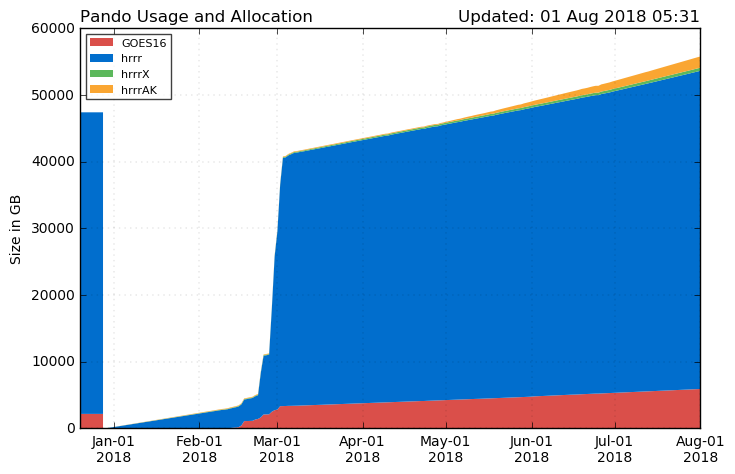
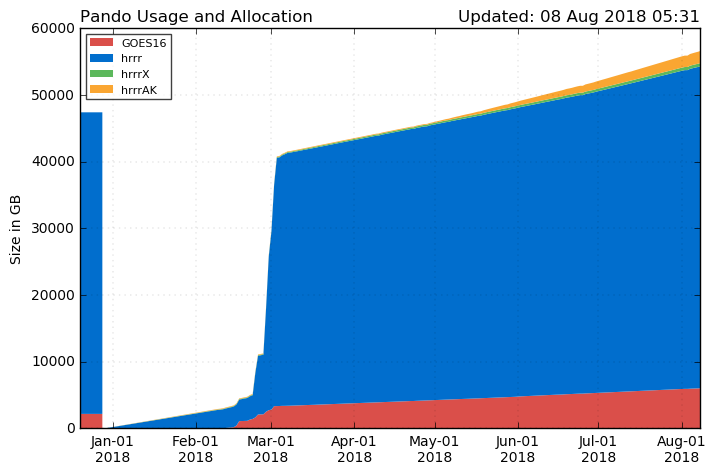
updates

diff --git a/hrrr_fires.html b/hrrr_fires.html
@@ -49,7 +49,7 @@ This page is created dynamically in the scirpt /oper/HRRR_fires/manager.py
 <tr><th>Name</th> <th>State</th> <th>Size (acres)</th> <th>Start Date</th></tr>
 <tr><td>
         <div class="btn-group" role="group" aria-label="..." style="padding-bottom:3px">
-        <a href="http://home.chpc.utah.edu/~u0553130/Brian_Blaylock/cgi-bin/photo_viewer_fire.cgi?FIRE=AREA_19" class="btn btn-warning" style="width:175px"><b><i class="fab fa-gripfire"></i> AREA 19</b></a>  <div class="btn-group" role="group">
+        <a href="http://home.chpc.utah.edu/~u0553130/Brian_Blaylock/cgi-bin/photo_viewer_fire.cgi?FIRE=ANGEL_SPRINGS" class="btn btn-warning" style="width:175px"><b><i class="fab fa-gripfire"></i> ANGEL SPRINGS</b></a>  <div class="btn-group" role="group">
         <!--
         <a class="btn btn-warning dropdown-toggle" data-toggle="dropdown" aria-haspopup="true" aria-expanded="false">
         <i class="far fa-clock"></i>
@@ -57,12 +57,12 @@ This page is created dynamically in the scirpt /oper/HRRR_fires/manager.py
         </a>
         <ul class="dropdown-menu">
         <li>Other Data/Figures:</li>
-        <li><a href="http://home.chpc.utah.edu/~u0553130/PhD/HRRR_fires/AREA_19">More Plots</a></li>
-        <li><a href="http://home.chpc.utah.edu/~u0553130/Brian_Blaylock/cgi-bin/hrrr_fires_alert.cgi?fire=AREA 19">Past Wind Events</a></li>
+        <li><a href="http://home.chpc.utah.edu/~u0553130/PhD/HRRR_fires/ANGEL_SPRINGS">More Plots</a></li>
+        <li><a href="http://home.chpc.utah.edu/~u0553130/Brian_Blaylock/cgi-bin/hrrr_fires_alert.cgi?fire=ANGEL SPRINGS">Past Wind Events</a></li>
         </ul>
         -->
         </div>
-        </div></td><td>Nevada</td> <td>5,000.0</td><td>2018-07-28 00:00:00</td></tr><tr><td>
+        </div></td><td>Washington</td> <td>4,500.0</td><td>2018-08-02 00:00:00</td></tr><tr><td>
         <div class="btn-group" role="group" aria-label="..." style="padding-bottom:3px">
         <a href="http://home.chpc.utah.edu/~u0553130/Brian_Blaylock/cgi-bin/photo_viewer_fire.cgi?FIRE=BULL_DRAW" class="btn btn-warning" style="width:175px"><b><i class="fab fa-gripfire"></i> BULL DRAW</b></a>  <div class="btn-group" role="group">
         <!--
@@ -77,9 +77,9 @@ This page is created dynamically in the scirpt /oper/HRRR_fires/manager.py
         </ul>
         -->
         </div>
-        </div></td><td>Colorado</td> <td>2,885.0</td><td>2018-07-29 00:00:00</td></tr><tr><td>
+        </div></td><td>Colorado</td> <td>6,439.0</td><td>2018-07-29 00:00:00</td></tr><tr><td>
         <div class="btn-group" role="group" aria-label="..." style="padding-bottom:3px">
-        <a href="http://home.chpc.utah.edu/~u0553130/Brian_Blaylock/cgi-bin/photo_viewer_fire.cgi?FIRE=FERGUSON" class="btn btn-warning" style="width:175px"><b><i class="fab fa-gripfire"></i> FERGUSON</b></a>  <div class="btn-group" role="group">
+        <a href="http://home.chpc.utah.edu/~u0553130/Brian_Blaylock/cgi-bin/photo_viewer_fire.cgi?FIRE=CARR" class="btn btn-warning" style="width:175px"><b><i class="fab fa-gripfire"></i> CARR</b></a>  <div class="btn-group" role="group">
         <!--
         <a class="btn btn-warning dropdown-toggle" data-toggle="dropdown" aria-haspopup="true" aria-expanded="false">
         <i class="far fa-clock"></i>
@@ -87,14 +87,14 @@ This page is created dynamically in the scirpt /oper/HRRR_fires/manager.py
         </a>
         <ul class="dropdown-menu">
         <li>Other Data/Figures:</li>
-        <li><a href="http://home.chpc.utah.edu/~u0553130/PhD/HRRR_fires/FERGUSON">More Plots</a></li>
-        <li><a href="http://home.chpc.utah.edu/~u0553130/Brian_Blaylock/cgi-bin/hrrr_fires_alert.cgi?fire=FERGUSON">Past Wind Events</a></li>
+        <li><a href="http://home.chpc.utah.edu/~u0553130/PhD/HRRR_fires/CARR">More Plots</a></li>
+        <li><a href="http://home.chpc.utah.edu/~u0553130/Brian_Blaylock/cgi-bin/hrrr_fires_alert.cgi?fire=CARR">Past Wind Events</a></li>
         </ul>
         -->
         </div>
-        </div></td><td>California</td> <td>37,795.0</td><td>2018-07-13 00:00:00</td></tr><tr><td>
+        </div></td><td>California</td> <td>160,049.0</td><td>2018-07-23 00:00:00</td></tr><tr><td>
         <div class="btn-group" role="group" aria-label="..." style="padding-bottom:3px">
-        <a href="http://home.chpc.utah.edu/~u0553130/Brian_Blaylock/cgi-bin/photo_viewer_fire.cgi?FIRE=GOOSE_CREEK" class="btn btn-warning" style="width:175px"><b><i class="fab fa-gripfire"></i> GOOSE CREEK</b></a>  <div class="btn-group" role="group">
+        <a href="http://home.chpc.utah.edu/~u0553130/Brian_Blaylock/cgi-bin/photo_viewer_fire.cgi?FIRE=COLUMBUS" class="btn btn-warning" style="width:175px"><b><i class="fab fa-gripfire"></i> COLUMBUS</b></a>  <div class="btn-group" role="group">
         <!--
         <a class="btn btn-warning dropdown-toggle" data-toggle="dropdown" aria-haspopup="true" aria-expanded="false">
         <i class="far fa-clock"></i>
@@ -102,12 +102,42 @@ This page is created dynamically in the scirpt /oper/HRRR_fires/manager.py
         </a>
         <ul class="dropdown-menu">
         <li>Other Data/Figures:</li>
-        <li><a href="http://home.chpc.utah.edu/~u0553130/PhD/HRRR_fires/GOOSE_CREEK">More Plots</a></li>
-        <li><a href="http://home.chpc.utah.edu/~u0553130/Brian_Blaylock/cgi-bin/hrrr_fires_alert.cgi?fire=GOOSE CREEK">Past Wind Events</a></li>
+        <li><a href="http://home.chpc.utah.edu/~u0553130/PhD/HRRR_fires/COLUMBUS">More Plots</a></li>
+        <li><a href="http://home.chpc.utah.edu/~u0553130/Brian_Blaylock/cgi-bin/hrrr_fires_alert.cgi?fire=COLUMBUS">Past Wind Events</a></li>
         </ul>
         -->
         </div>
-        </div></td><td>Nevada</td> <td>12,000.0</td><td>2018-07-26 00:00:00</td></tr><tr><td>
+        </div></td><td>Oregon</td> <td>9,024.0</td><td>2018-07-15 00:00:00</td></tr><tr><td>
+        <div class="btn-group" role="group" aria-label="..." style="padding-bottom:3px">
+        <a href="http://home.chpc.utah.edu/~u0553130/Brian_Blaylock/cgi-bin/photo_viewer_fire.cgi?FIRE=DONNELL" class="btn btn-warning" style="width:175px"><b><i class="fab fa-gripfire"></i> DONNELL</b></a>  <div class="btn-group" role="group">
+        <!--
+        <a class="btn btn-warning dropdown-toggle" data-toggle="dropdown" aria-haspopup="true" aria-expanded="false">
+        <i class="far fa-clock"></i>
+        <span class="caret"></span>
+        </a>
+        <ul class="dropdown-menu">
+        <li>Other Data/Figures:</li>
+        <li><a href="http://home.chpc.utah.edu/~u0553130/PhD/HRRR_fires/DONNELL">More Plots</a></li>
+        <li><a href="http://home.chpc.utah.edu/~u0553130/Brian_Blaylock/cgi-bin/hrrr_fires_alert.cgi?fire=DONNELL">Past Wind Events</a></li>
+        </ul>
+        -->
+        </div>
+        </div></td><td>California</td> <td>6,000.0</td><td>2018-08-01 00:00:00</td></tr><tr><td>
+        <div class="btn-group" role="group" aria-label="..." style="padding-bottom:3px">
+        <a href="http://home.chpc.utah.edu/~u0553130/Brian_Blaylock/cgi-bin/photo_viewer_fire.cgi?FIRE=FERGUSON_" class="btn btn-warning" style="width:175px"><b><i class="fab fa-gripfire"></i> FERGUSON </b></a>  <div class="btn-group" role="group">
+        <!--
+        <a class="btn btn-warning dropdown-toggle" data-toggle="dropdown" aria-haspopup="true" aria-expanded="false">
+        <i class="far fa-clock"></i>
+        <span class="caret"></span>
+        </a>
+        <ul class="dropdown-menu">
+        <li>Other Data/Figures:</li>
+        <li><a href="http://home.chpc.utah.edu/~u0553130/PhD/HRRR_fires/FERGUSON_">More Plots</a></li>
+        <li><a href="http://home.chpc.utah.edu/~u0553130/Brian_Blaylock/cgi-bin/hrrr_fires_alert.cgi?fire=FERGUSON ">Past Wind Events</a></li>
+        </ul>
+        -->
+        </div>
+        </div></td><td>California</td> <td>89,633.0</td><td>2018-07-13 00:00:00</td></tr><tr><td>
         <div class="btn-group" role="group" aria-label="..." style="padding-bottom:3px">
         <a href="http://home.chpc.utah.edu/~u0553130/Brian_Blaylock/cgi-bin/photo_viewer_fire.cgi?FIRE=KLONDIKE" class="btn btn-warning" style="width:175px"><b><i class="fab fa-gripfire"></i> KLONDIKE</b></a>  <div class="btn-group" role="group">
         <!--
@@ -122,7 +152,7 @@ This page is created dynamically in the scirpt /oper/HRRR_fires/manager.py
         </ul>
         -->
         </div>
-        </div></td><td>Oregon</td> <td>6,097.0</td><td>2018-07-15 00:00:00</td></tr><tr><td>
+        </div></td><td>Oregon</td> <td>28,476.0</td><td>2018-07-15 00:00:00</td></tr><tr><td>
         <div class="btn-group" role="group" aria-label="..." style="padding-bottom:3px">
         <a href="http://home.chpc.utah.edu/~u0553130/Brian_Blaylock/cgi-bin/photo_viewer_fire.cgi?FIRE=MENDOCINO_COMPLEX" class="btn btn-warning" style="width:175px"><b><i class="fab fa-gripfire"></i> MENDOCINO COMPLEX</b></a>  <div class="btn-group" role="group">
         <!--
@@ -137,9 +167,9 @@ This page is created dynamically in the scirpt /oper/HRRR_fires/manager.py
         </ul>
         -->
         </div>
-        </div></td><td>California</td> <td>14,000.0</td><td>2018-07-27 00:00:00</td></tr><tr><td>
+        </div></td><td>California</td> <td>266,982.0</td><td>2018-07-27 00:00:00</td></tr><tr><td>
         <div class="btn-group" role="group" aria-label="..." style="padding-bottom:3px">
-        <a href="http://home.chpc.utah.edu/~u0553130/Brian_Blaylock/cgi-bin/photo_viewer_fire.cgi?FIRE=MESA" class="btn btn-warning" style="width:175px"><b><i class="fab fa-gripfire"></i> MESA</b></a>  <div class="btn-group" role="group">
+        <a href="http://home.chpc.utah.edu/~u0553130/Brian_Blaylock/cgi-bin/photo_viewer_fire.cgi?FIRE=MESA_" class="btn btn-warning" style="width:175px"><b><i class="fab fa-gripfire"></i> MESA </b></a>  <div class="btn-group" role="group">
         <!--
         <a class="btn btn-warning dropdown-toggle" data-toggle="dropdown" aria-haspopup="true" aria-expanded="false">
         <i class="far fa-clock"></i>
@@ -147,14 +177,14 @@ This page is created dynamically in the scirpt /oper/HRRR_fires/manager.py
         </a>
         <ul class="dropdown-menu">
         <li>Other Data/Figures:</li>
-        <li><a href="http://home.chpc.utah.edu/~u0553130/PhD/HRRR_fires/MESA">More Plots</a></li>
-        <li><a href="http://home.chpc.utah.edu/~u0553130/Brian_Blaylock/cgi-bin/hrrr_fires_alert.cgi?fire=MESA">Past Wind Events</a></li>
+        <li><a href="http://home.chpc.utah.edu/~u0553130/PhD/HRRR_fires/MESA_">More Plots</a></li>
+        <li><a href="http://home.chpc.utah.edu/~u0553130/Brian_Blaylock/cgi-bin/hrrr_fires_alert.cgi?fire=MESA ">Past Wind Events</a></li>
         </ul>
         -->
         </div>
-        </div></td><td>Idaho</td> <td>6,000.0</td><td>2018-07-26 00:00:00</td></tr><tr><td>
+        </div></td><td>Idaho</td> <td>33,989.0</td><td>2018-07-26 00:00:00</td></tr><tr><td>
         <div class="btn-group" role="group" aria-label="..." style="padding-bottom:3px">
-        <a href="http://home.chpc.utah.edu/~u0553130/Brian_Blaylock/cgi-bin/photo_viewer_fire.cgi?FIRE=RATTLESNAKE_CREEK" class="btn btn-warning" style="width:175px"><b><i class="fab fa-gripfire"></i> RATTLESNAKE CREEK</b></a>  <div class="btn-group" role="group">
+        <a href="http://home.chpc.utah.edu/~u0553130/Brian_Blaylock/cgi-bin/photo_viewer_fire.cgi?FIRE=MILES_FIRE" class="btn btn-warning" style="width:175px"><b><i class="fab fa-gripfire"></i> MILES FIRE</b></a>  <div class="btn-group" role="group">
         <!--
         <a class="btn btn-warning dropdown-toggle" data-toggle="dropdown" aria-haspopup="true" aria-expanded="false">
         <i class="far fa-clock"></i>
@@ -162,12 +192,42 @@ This page is created dynamically in the scirpt /oper/HRRR_fires/manager.py
         </a>
         <ul class="dropdown-menu">
         <li>Other Data/Figures:</li>
-        <li><a href="http://home.chpc.utah.edu/~u0553130/PhD/HRRR_fires/RATTLESNAKE_CREEK">More Plots</a></li>
-        <li><a href="http://home.chpc.utah.edu/~u0553130/Brian_Blaylock/cgi-bin/hrrr_fires_alert.cgi?fire=RATTLESNAKE CREEK">Past Wind Events</a></li>
+        <li><a href="http://home.chpc.utah.edu/~u0553130/PhD/HRRR_fires/MILES_FIRE">More Plots</a></li>
+        <li><a href="http://home.chpc.utah.edu/~u0553130/Brian_Blaylock/cgi-bin/hrrr_fires_alert.cgi?fire=MILES FIRE">Past Wind Events</a></li>
         </ul>
         -->
         </div>
-        </div></td><td>Idaho</td> <td>3,789.0</td><td>2018-07-23 00:00:00</td></tr><tr><td>
+        </div></td><td>Oregon</td> <td>25,874.0</td><td>2018-07-16 00:00:00</td></tr><tr><td>
+        <div class="btn-group" role="group" aria-label="..." style="padding-bottom:3px">
+        <a href="http://home.chpc.utah.edu/~u0553130/Brian_Blaylock/cgi-bin/photo_viewer_fire.cgi?FIRE=NATCHEZ" class="btn btn-warning" style="width:175px"><b><i class="fab fa-gripfire"></i> NATCHEZ</b></a>  <div class="btn-group" role="group">
+        <!--
+        <a class="btn btn-warning dropdown-toggle" data-toggle="dropdown" aria-haspopup="true" aria-expanded="false">
+        <i class="far fa-clock"></i>
+        <span class="caret"></span>
+        </a>
+        <ul class="dropdown-menu">
+        <li>Other Data/Figures:</li>
+        <li><a href="http://home.chpc.utah.edu/~u0553130/PhD/HRRR_fires/NATCHEZ">More Plots</a></li>
+        <li><a href="http://home.chpc.utah.edu/~u0553130/Brian_Blaylock/cgi-bin/hrrr_fires_alert.cgi?fire=NATCHEZ">Past Wind Events</a></li>
+        </ul>
+        -->
+        </div>
+        </div></td><td>California</td> <td>9,848.0</td><td>2018-07-15 00:00:00</td></tr><tr><td>
+        <div class="btn-group" role="group" aria-label="..." style="padding-bottom:3px">
+        <a href="http://home.chpc.utah.edu/~u0553130/Brian_Blaylock/cgi-bin/photo_viewer_fire.cgi?FIRE=PLATEAU" class="btn btn-warning" style="width:175px"><b><i class="fab fa-gripfire"></i> PLATEAU</b></a>  <div class="btn-group" role="group">
+        <!--
+        <a class="btn btn-warning dropdown-toggle" data-toggle="dropdown" aria-haspopup="true" aria-expanded="false">
+        <i class="far fa-clock"></i>
+        <span class="caret"></span>
+        </a>
+        <ul class="dropdown-menu">
+        <li>Other Data/Figures:</li>
+        <li><a href="http://home.chpc.utah.edu/~u0553130/PhD/HRRR_fires/PLATEAU">More Plots</a></li>
+        <li><a href="http://home.chpc.utah.edu/~u0553130/Brian_Blaylock/cgi-bin/hrrr_fires_alert.cgi?fire=PLATEAU">Past Wind Events</a></li>
+        </ul>
+        -->
+        </div>
+        </div></td><td>Colorado</td> <td>4,850.0</td><td>2018-07-22 00:00:00</td></tr><tr><td>
         <div class="btn-group" role="group" aria-label="..." style="padding-bottom:3px">
         <a href="http://home.chpc.utah.edu/~u0553130/Brian_Blaylock/cgi-bin/photo_viewer_fire.cgi?FIRE=SHARPS" class="btn btn-warning" style="width:175px"><b><i class="fab fa-gripfire"></i> SHARPS</b></a>  <div class="btn-group" role="group">
         <!--
@@ -182,22 +242,7 @@ This page is created dynamically in the scirpt /oper/HRRR_fires/manager.py
         </ul>
         -->
         </div>
-        </div></td><td>Idaho</td> <td>2,750.0</td><td>2018-07-29 00:00:00</td></tr><tr><td>
-        <div class="btn-group" role="group" aria-label="..." style="padding-bottom:3px">
-        <a href="http://home.chpc.utah.edu/~u0553130/Brian_Blaylock/cgi-bin/photo_viewer_fire.cgi?FIRE=SOUTH_UMPQUA_COMPLEX" class="btn btn-warning" style="width:175px"><b><i class="fab fa-gripfire"></i> SOUTH UMPQUA COMPLEX</b></a>  <div class="btn-group" role="group">
-        <!--
-        <a class="btn btn-warning dropdown-toggle" data-toggle="dropdown" aria-haspopup="true" aria-expanded="false">
-        <i class="far fa-clock"></i>
-        <span class="caret"></span>
-        </a>
-        <ul class="dropdown-menu">
-        <li>Other Data/Figures:</li>
-        <li><a href="http://home.chpc.utah.edu/~u0553130/PhD/HRRR_fires/SOUTH_UMPQUA_COMPLEX">More Plots</a></li>
-        <li><a href="http://home.chpc.utah.edu/~u0553130/Brian_Blaylock/cgi-bin/hrrr_fires_alert.cgi?fire=SOUTH UMPQUA COMPLEX">Past Wind Events</a></li>
-        </ul>
-        -->
-        </div>
-        </div></td><td>Oregon</td> <td>6,069.0</td><td>2018-07-17 00:00:00</td></tr><tr><td>
+        </div></td><td>Idaho</td> <td>63,901.0</td><td>2018-07-29 00:00:00</td></tr><tr><td>
         <div class="btn-group" role="group" aria-label="..." style="padding-bottom:3px">
         <a href="http://home.chpc.utah.edu/~u0553130/Brian_Blaylock/cgi-bin/photo_viewer_fire.cgi?FIRE=TAYLOR_CREEK" class="btn btn-warning" style="width:175px"><b><i class="fab fa-gripfire"></i> TAYLOR CREEK</b></a>  <div class="btn-group" role="group">
         <!--
@@ -212,22 +257,7 @@ This page is created dynamically in the scirpt /oper/HRRR_fires/manager.py
         </ul>
         -->
         </div>
-        </div></td><td>Oregon</td> <td>26,950.0</td><td>2018-07-15 00:00:00</td></tr><tr><td>
-        <div class="btn-group" role="group" aria-label="..." style="padding-bottom:3px">
-        <a href="http://home.chpc.utah.edu/~u0553130/Brian_Blaylock/cgi-bin/photo_viewer_fire.cgi?FIRE=WHALEBACK" class="btn btn-warning" style="width:175px"><b><i class="fab fa-gripfire"></i> WHALEBACK</b></a>  <div class="btn-group" role="group">
-        <!--
-        <a class="btn btn-warning dropdown-toggle" data-toggle="dropdown" aria-haspopup="true" aria-expanded="false">
-        <i class="far fa-clock"></i>
-        <span class="caret"></span>
-        </a>
-        <ul class="dropdown-menu">
-        <li>Other Data/Figures:</li>
-        <li><a href="http://home.chpc.utah.edu/~u0553130/PhD/HRRR_fires/WHALEBACK">More Plots</a></li>
-        <li><a href="http://home.chpc.utah.edu/~u0553130/Brian_Blaylock/cgi-bin/hrrr_fires_alert.cgi?fire=WHALEBACK">Past Wind Events</a></li>
-        </ul>
-        -->
-        </div>
-        </div></td><td>California</td> <td>8,000.0</td><td>2018-07-27 00:00:00</td></tr>
+        </div></td><td>Oregon</td> <td>38,400.0</td><td>2018-07-15 00:00:00</td></tr>
 </table>
 </div>
   <div class="col-md-6">
@@ -245,7 +275,7 @@ This page is created dynamically in the scirpt /oper/HRRR_fires/manager.py
     <p><a class='btn btn-default' style='width:100%' href="https://rmgsc.cr.usgs.gov/outgoing/GeoMAC/ActiveFirePerimeters.kml" target="_blank">Active Fire KMZ USGS <i class="fa fa-external-link-alt"></i></a>
     <p><a class='btn btn-default' style='width:100%' href="https://earthdata.nasa.gov/earth-observation-data/near-real-time/firms/active-fire-data" target="_blank">Active Fire KMZ EarthData <i class="fa fa-external-link-alt"></i></a>
     <p><a class='btn btn-success' style='width:100%' href="https://rmgsc.cr.usgs.gov/outgoing/GeoMAC/current_year_fire_data/current_year_all_states/" target="_blank">Active Fire Perimeter ShapeFile <i class="fa fa-external-link-alt"></i></a>
-    <p><a class='btn btn-success' style='width:100%' href="https://fsapps.nwcg.gov/afm/data/lg_fire/lg_fire_info_2018-08-01.txt" target="_blank">Active Fire Text <i class="fa fa-external-link-alt"></i></a>
+    <p><a class='btn btn-success' style='width:100%' href="https://fsapps.nwcg.gov/afm/data/lg_fire/lg_fire_info_2018-08-08.txt" target="_blank">Active Fire Text <i class="fa fa-external-link-alt"></i></a>
     </div>
 </center>
 </div>

diff --git a/Pando_archive/index.html b/Pando_archive/index.html
@@ -37,7 +37,7 @@
         </div>
   <br>
   <script src='./js/pando_status.js'></script>
-    <center><font size=12> 55.9 TB out of 60 TB</font>
+    <center><font size=12> 56.7 TB out of 60 TB</font>
     <div class="progress" style="max-width:700px;height:35px">
             <div class="progress-bar progress-bar-danger" role="progressbar" style="width:10%">
               <font size=4></font>
@@ -64,9 +64,9 @@
         <th style='text-align:center'>Estimated Full Date</th>
       </tr>
       <tr>
-        <td>117.13 GB</td>
-        <td>35</td>
-        <td>05 September 2018</td>
+        <td>124.28 GB</td>
+        <td>26</td>
+        <td>03 September 2018</td>
       </tr>
     </table>
     <table class="table table-bordered" style='text-align:center;max-width:700px'>
@@ -80,30 +80,30 @@
       <tr>
         <th>sfc</th>
         <td>--</td>
-        <td>23.29</td>
-        <td>0.81</td>
-        <td>7.27</td>
+        <td>22.33</td>
+        <td>1.02</td>
+        <td>7.43</td>
       </tr>
       <tr>
         <th>prs</th>
         <td>--</td>
-        <td>3.27</td>
+        <td>3.15</td>
         <td>0.00</td>
         <td>0.00</td>
       </tr>
       <tr>
         <th>nat</th>
         <td>--</td>
-        <td>5.14</td>
+        <td>4.94</td>
         <td>0.00</td>
         <td>0.00</td>
       </tr>
       <tr>
         <th>Total</th>
-        <th>16.7 GB</th>
-        <th>31.70 GB</th>
-        <th>0.81 GB</th>
-        <th>7.27 GB</th>
+        <th>26.7 GB</th>
+        <th>30.42 GB</th>
+        <th>1.02 GB</th>
+        <th>7.43 GB</th>
       </tr>
     </table>
 

diff --git a/hrrr_FAQ.html b/hrrr_FAQ.html
@@ -78,7 +78,7 @@
                research community. However, an official HRRR archive does not exist.
                We began archiving HRRR data in April 2015 to support
                research efforts at the University of Utah. The archive system 
-               <a href"http://home.chpc.utah.edu/~u0553130/Brian_Blaylock/Pando_archive/Pando_Failure.html">failed</a>
+               <a href="http://home.chpc.utah.edu/~u0553130/Brian_Blaylock/Pando_archive/Pando_Failure.html">failed</a>
                and we lost all the data. We rebuilt the archive with data beginning
                15 July 2016.
                 

diff --git a/index.html b/index.html
@@ -78,7 +78,7 @@
                research community. However, an official HRRR archive does not exist.
                We began archiving HRRR data in April 2015 to support
                research efforts at the University of Utah. The archive system 
-               <a href"http://home.chpc.utah.edu/~u0553130/Brian_Blaylock/Pando_archive/Pando_Failure.html">failed</a>
+               <a href="http://home.chpc.utah.edu/~u0553130/Brian_Blaylock/Pando_archive/Pando_Failure.html">failed</a>
                and we lost all the data. We rebuilt the archive with data beginning
                15 July 2016.
                 
